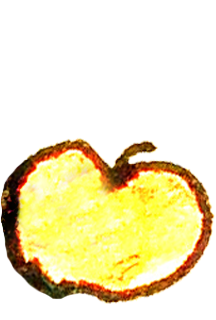
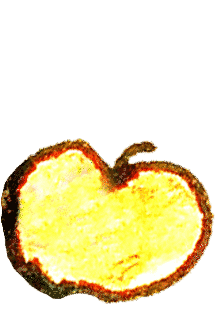
clean up assets
- remove unused files
- reduce png colors
- convert repeating_grey.jpg into png

diff --git a/src/components/Statistics/PickupFeedback.vue b/src/components/Statistics/PickupFeedback.vue
@@ -89,7 +89,7 @@
 import { QCard, QCardMain, QField, QInput, QBtn, QSelect } from 'quasar'
 import AmountPicker from './AmountPicker'
 import FeedbackList from './FeedbackList'
-import cartImg from 'assets/people/cart.png'
+import cartImg from 'assets/feedback/cart.png'
 import RandomArt from '@/components/General/RandomArt'
 import FeedbackForm from './FeedbackForm'
 import KNotice from '@/components/General/KNotice'

diff --git a/src/components/Statistics/AmountViewer.vue b/src/components/Statistics/AmountViewer.vue
@@ -15,7 +15,7 @@ import bagImg from 'assets/feedback/bag.png'
 import flourImg from 'assets/feedback/flour.png'
 import flourGuyImg from 'assets/feedback/flourGuy.png'
 import milkImg from 'assets/feedback/milk.png'
-import cartImg from 'assets/people/cart.png'
+import cartImg from 'assets/feedback/cart.png'
 
 export default {
   data () {

diff --git a/src/pages/MainLayout.vue b/src/pages/MainLayout.vue
@@ -232,7 +232,7 @@ body.desktop .mainContent
     margin-left auto
     margin-right auto
 .background
-  background-image url('../assets/repeating_grey.jpg')
+  background-image url('../assets/repeating_grey.png')
   background-size: 600px
   background-attachment:fixed
 .q-layout-footer
